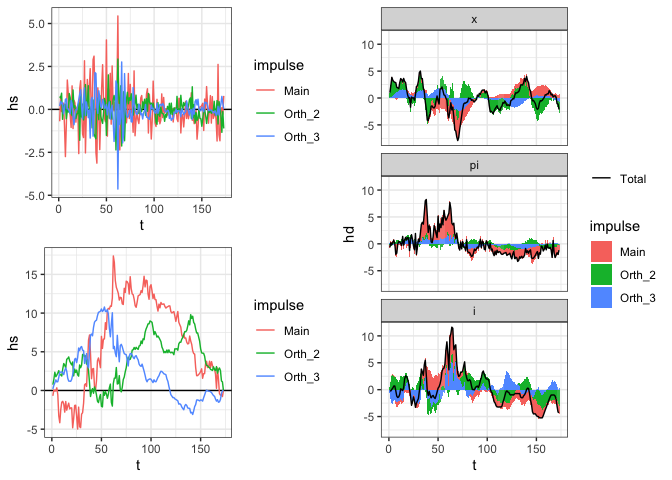
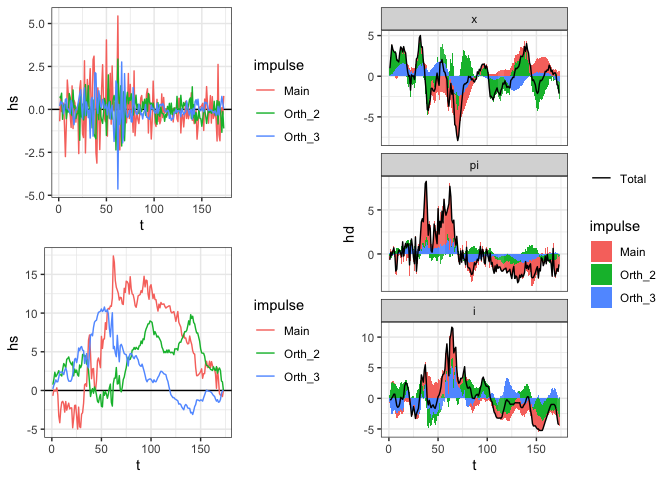
Typo, plot.hd free_y axis

diff --git a/README.md b/README.md
@@ -149,7 +149,7 @@ cowplot::plot_grid(plot(fevdsv), plot(fevdmv), nrow = 1)
 <img src="man/figures/README-exanmple_fd_fevd-1.png" width="100%" />
 
 There are also easy functions for looking at the historical shocks and
-the historical shock decompositions
+the historical shock decompositions.
 
 ``` r
 
